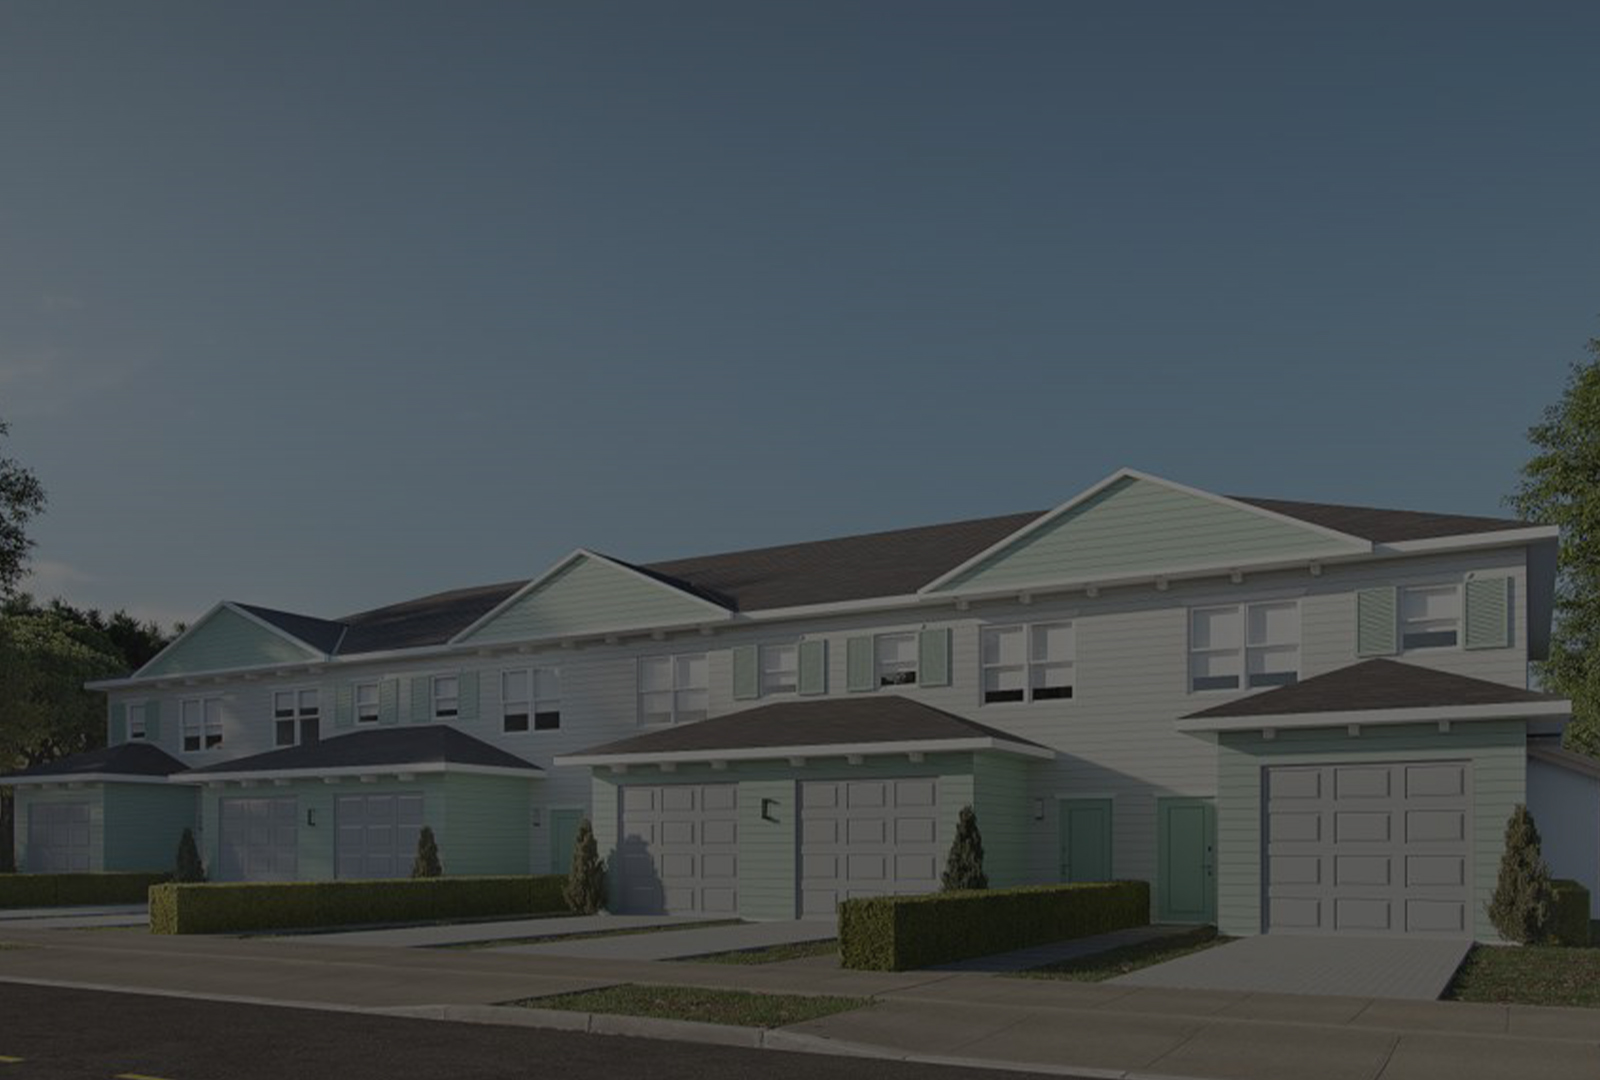
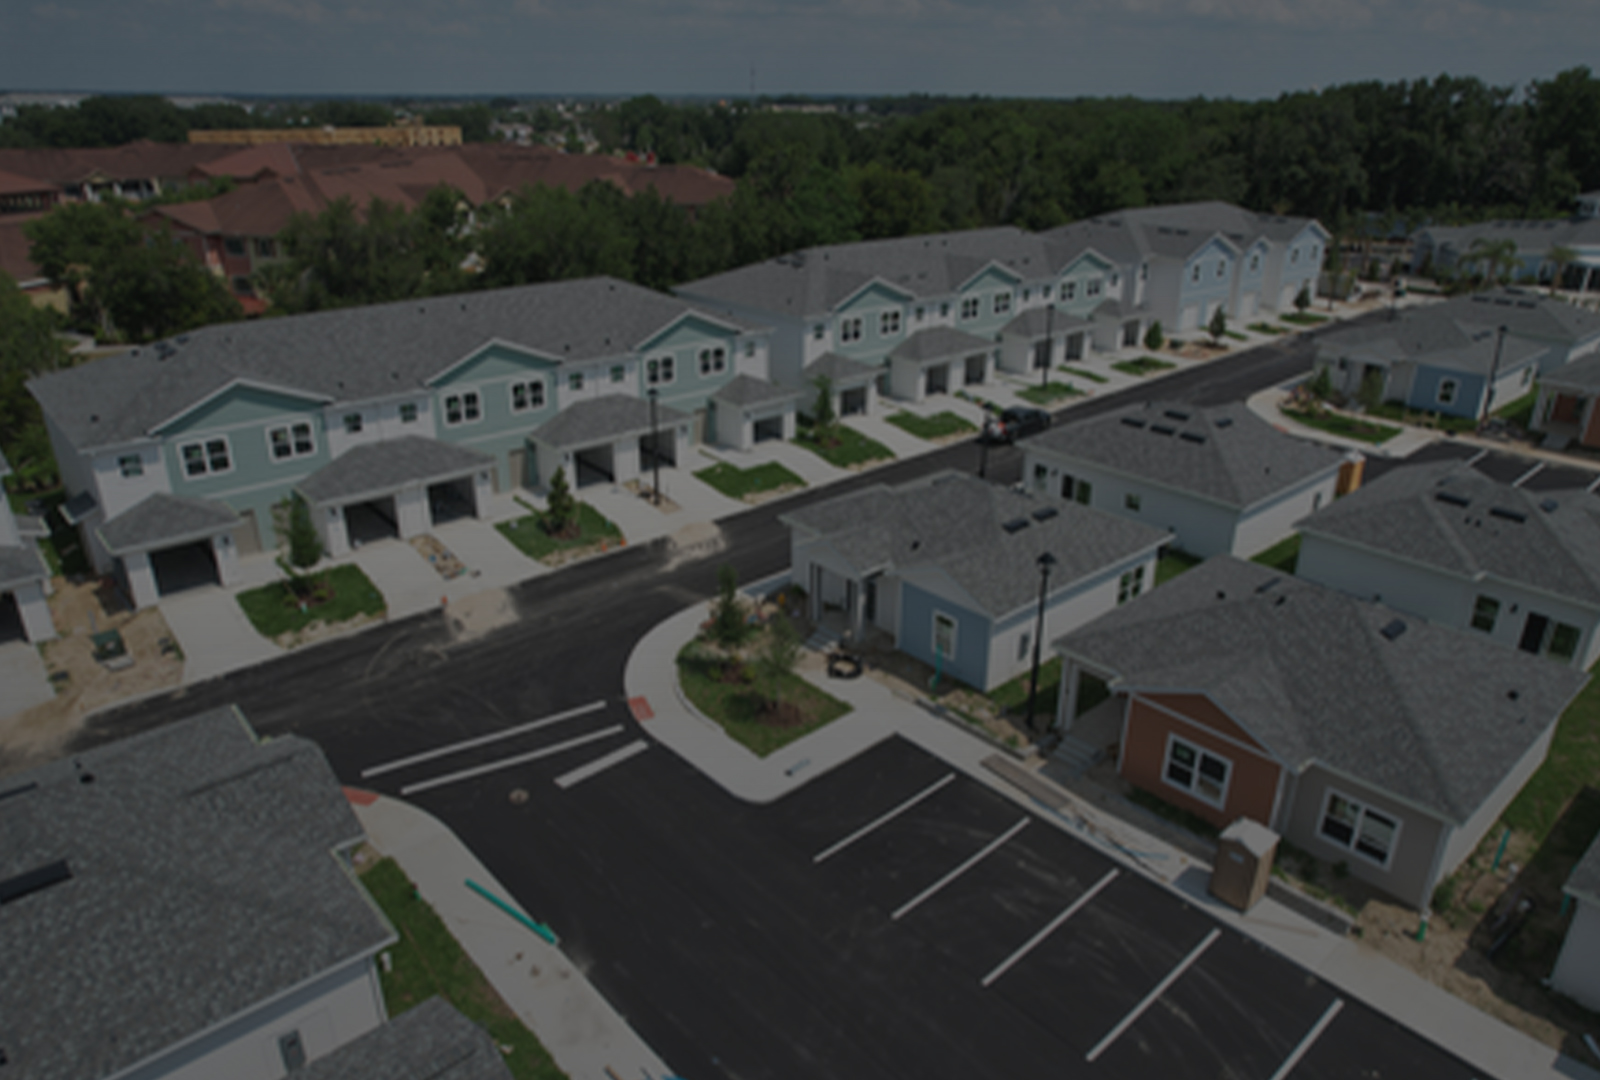
feat: on going changes

diff --git a/src/app/page.js b/src/app/page.js
@@ -28,7 +28,7 @@ export default function Home() {
 
   // Change Background types
   const [backImage, setBackImage] = useState('multifamily');
-  const [showPage, setShowPage] = useState(false);
+  const [showPage, setShowPage] = useState(true);
 
   useEffect(() => {
     document.querySelector('video').addEventListener('ended', function(e) {
@@ -79,11 +79,7 @@ export default function Home() {
                   </Link>
                 </div>
 
-                <img
-                  atl="Agador logo"
-                  src="/home/wc-02.jpg"
-                  // src="/home/wc-01.jpg"
-                />
+                <img alt="Agador logo" src="/home/wc-02.jpg" />
               </div>
 
               <h3 style={{
@@ -157,29 +153,37 @@ export default function Home() {
             ></div>
 
             <div className="home-benefits__container">
-              <div
-                className="home-benefits__column"
-                onMouseEnter={() => setBackImage('multifamily')}
-              >
-                <h4>Multi-family</h4>
-              </div>
+                <div
+                  className="home-benefits__column"
+                  onMouseEnter={() => setBackImage('multifamily')}
+                >
+                  <Link href="/portfolio/us?filter=multifamily">
+                    <h4>Multifamily</h4>
+                  </Link>
+                </div>
               <div
                 className="home-benefits__column"
                 onMouseEnter={() => setBackImage('industrial')}
               >
-                <h4>Industrial</h4>
+                <Link href="/portfolio/us?filter=industrial">
+                  <h4>Industrial</h4>
+                </Link>
               </div>
               <div
                 className="home-benefits__column"
                 onMouseEnter={() => setBackImage('hospitality')}
               >
-                <h4>Hospitality</h4>
+                <Link href="/portfolio/us?filter=hospitality">
+                  <h4>Hospitality</h4>
+                </Link>
               </div>
               <div
                 className="home-benefits__column"
                 onMouseEnter={() => setBackImage('residential')}
               >
-                <h4>Residential</h4>
+                <Link href="/portfolio/us?filter=residential">
+                  <h4>Residential</h4>
+                </Link>
               </div>
             </div>
           </section>
@@ -207,11 +211,9 @@ export default function Home() {
                     </div>
                   </Link>
                   <div className="info">
-                    <div>
                       <h4>{property.name}</h4>
+                      <p className="location">{property.location}</p>
                       <p className="type">{property.type}</p>
-                    </div>
-                    <p className="location">{property.location}</p>
                   </div>
                 </div>
               ))}

diff --git a/src/helpers/properties.js b/src/helpers/properties.js
@@ -20,7 +20,7 @@ export const properties = [
       'Apartments-at-Palm-Bay-5.jpg',
       'Apartments-at-Palm-Bay-6.jpg',
     ],
-    type: 'Multi-family',
+    type: 'Multifamily',
   },
   {
     id: 2,
@@ -42,7 +42,7 @@ export const properties = [
       'Crela-Spring-Hill-3.jpg',
       'Crela-Spring-Hill-4.jpg',
     ],
-    type: 'Multi-family',
+    type: 'Multifamily',
   },
   {
     id: 3,
@@ -62,7 +62,7 @@ export const properties = [
       'Cottages-at-Lake-Hamilton-2.jpg',
       'Cottages-at-Lake-Hamilton-3.jpg',
     ],
-    type: 'Multi-family',
+    type: 'Multifamily',
   },
   {
     id: 4,
@@ -84,7 +84,7 @@ export const properties = [
       'Magnolia-at-Powell-2.jpg',
       'Magnolia-at-Powell-3.jpg',
     ],
-    type: 'Multi-family',
+    type: 'Multifamily',
   },
   {
     id: 5,
@@ -104,7 +104,7 @@ export const properties = [
       'Storage-at-Powell-2.jpg',
       'Storage-at-Powell-3.jpg',
     ],
-    type: 'Multi-family',
+    type: 'Industrial',
   },
   {
     id: 6,
@@ -128,7 +128,7 @@ export const properties = [
       'Solamar-Wildwood-3.jpg',
       'Solamar-Wildwood-4.jpg',
     ],
-    type: 'Multi-family',
+    type: 'Multifamily',
   },
   {
     id: 7,
@@ -148,7 +148,7 @@ export const properties = [
       'Solamar-Kissimmee-2.jpg',
       'Solamar-Kissimmee-3.jpg',
     ],
-    type: 'Multi-family',
+    type: 'Multifamily',
   },
   {
     id: 8,
@@ -331,7 +331,7 @@ export const propertiesMX = [
       'Apartments-at-Palm-Bay-5.jpg',
       'Apartments-at-Palm-Bay-6.jpg',
     ],
-    type: 'Multi-family',
+    type: 'Multifamily',
   },
   {
     id: 2,
@@ -353,6 +353,6 @@ export const propertiesMX = [
       'Crela-Spring-Hill-3.jpg',
       'Crela-Spring-Hill-4.jpg',
     ],
-    type: 'Multi-family',
+    type: 'Multifamily',
   },
 ]

diff --git a/src/components/Portfolio/Portfolio.js b/src/components/Portfolio/Portfolio.js
@@ -8,13 +8,18 @@ import { useEffect, useState } from 'react';
 
 import Button from '@/components/Button/Button';
 
+import { useSearchParams } from 'next/navigation'
 import { properties as propertiesUS, propertiesMX } from '@/helpers/properties';
 import { dynamicClass } from '@/helpers/dynamic-class';
 
 export default function Portfolio({ isMX }) {
+  const searchParams = useSearchParams()
+  const filterParam = searchParams.get('filter')
   const properties = isMX ? propertiesMX : propertiesUS;
 
-  const [currentType, setCurrentType] = useState('all');
+  const capitalize = (string) => string.replace(/^\w/, (c) => c.toUpperCase());
+
+  const [currentType, setCurrentType] = useState(filterParam ? capitalize(filterParam) : 'all');
   const [currentProgress, setCurrentProgress] = useState('all');
   const [currentProperty, setCurrentProperty] = useState(properties[0]);
   const [flash, setflash] = useState(false);
@@ -81,9 +86,9 @@ export default function Portfolio({ isMX }) {
               click={() => setCurrentType('all')}
             />
             <Button
-              text="Multi-family"
-              css={dynamicClass(currentType === 'Multi-family', 'bg-red')}
-              click={() => setCurrentType('Multi-family')}
+              text="Multifamily"
+              css={dynamicClass(currentType === 'Multifamily', 'bg-red')}
+              click={() => setCurrentType('Multifamily')}
             />
             <Button
               text="Hospitality"

diff --git a/src/app/home.scss b/src/app/home.scss
@@ -127,7 +127,13 @@
         transition: top 0.5s ease-in-out;
       }
 
+      a {
+        display: block;
+        width: 100%;
+        height: 100%;
+      }
     }
+
     &__column:last-of-type {
       border-right: none;
     }
@@ -184,7 +190,7 @@
         position: absolute;
         z-index: 3;
         top: 35%;
-        right: 40%;
+        right: 15%;
         color: white;
         font-weight: 100;
         border-radius: 50%;
@@ -211,32 +217,31 @@
         color: white;
         padding: 1rem 2rem;
         display: flex;
+        flex-direction: column;
         width: 100%;
-        justify-content: space-between;
-        align-items: end;
 
         h4 {
-          font-weight: 300;
-          font-size: 22px;
+          font-weight: 600;
+          font-size: 26px;
           max-width: 200px;
         }
 
         .type {
           background-color: #d20000;
-          width: 130px;
+          max-width: fit-content;
           text-align: center;
           font-weight: 100;
           border-radius: 15px;
-          padding: 4px 0;
-          margin-top: 18px;
+          padding: 2px 22px;
         }
 
         .location {
           border-radius: 15px;
           border: solid 1px white;
           font-weight: 100;
-          padding: 3px 16px;
-          font-size: 20px;
+          padding: 2px 15px;
+          max-width: fit-content;
+          margin: 16px 0;
         }
       }
     }

diff --git a/src/app/portfolio/us/page.js b/src/app/portfolio/us/page.js
@@ -1,3 +1,5 @@
+'use client'
+
 import Menu from "@/components/Menu/Menu";
 import Portfolio from "@/components/Portfolio/Portfolio";
 

diff --git a/src/components/Menu/menu.scss b/src/components/Menu/menu.scss
@@ -69,7 +69,7 @@
       pointer-events: none;
 
       p {
-        font-size: 24px;
+        font-size: 28px;
       }
     }
 
